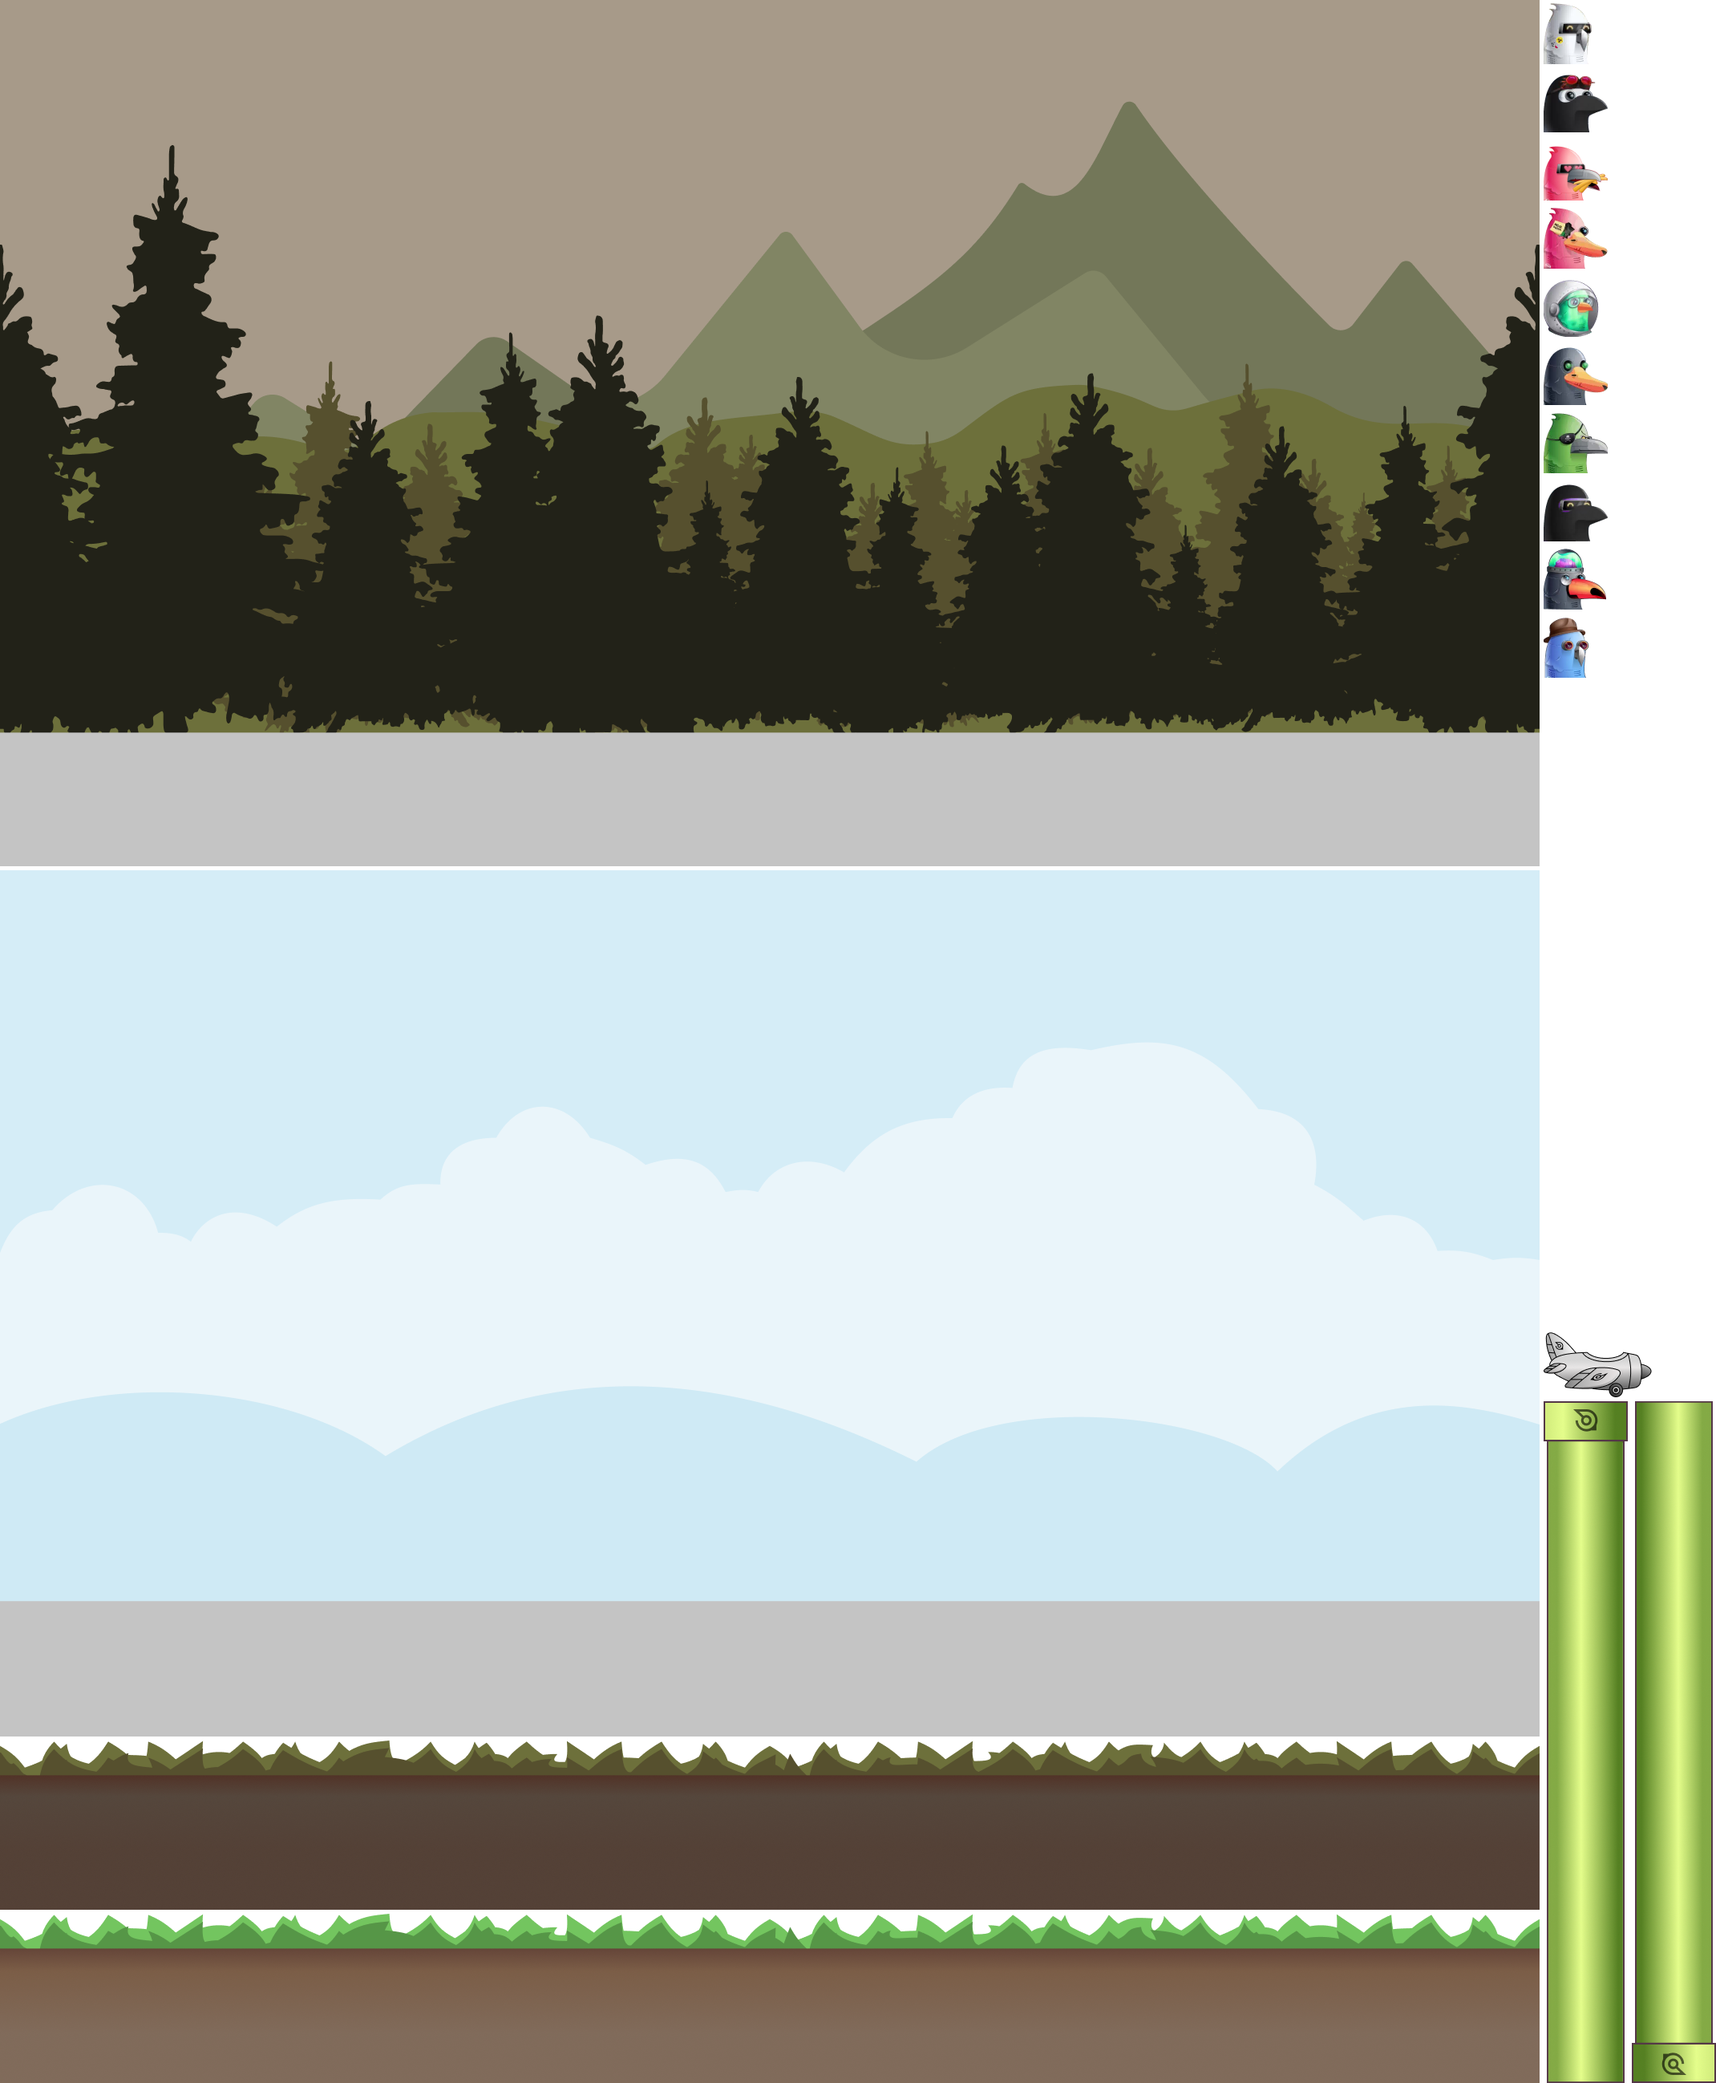
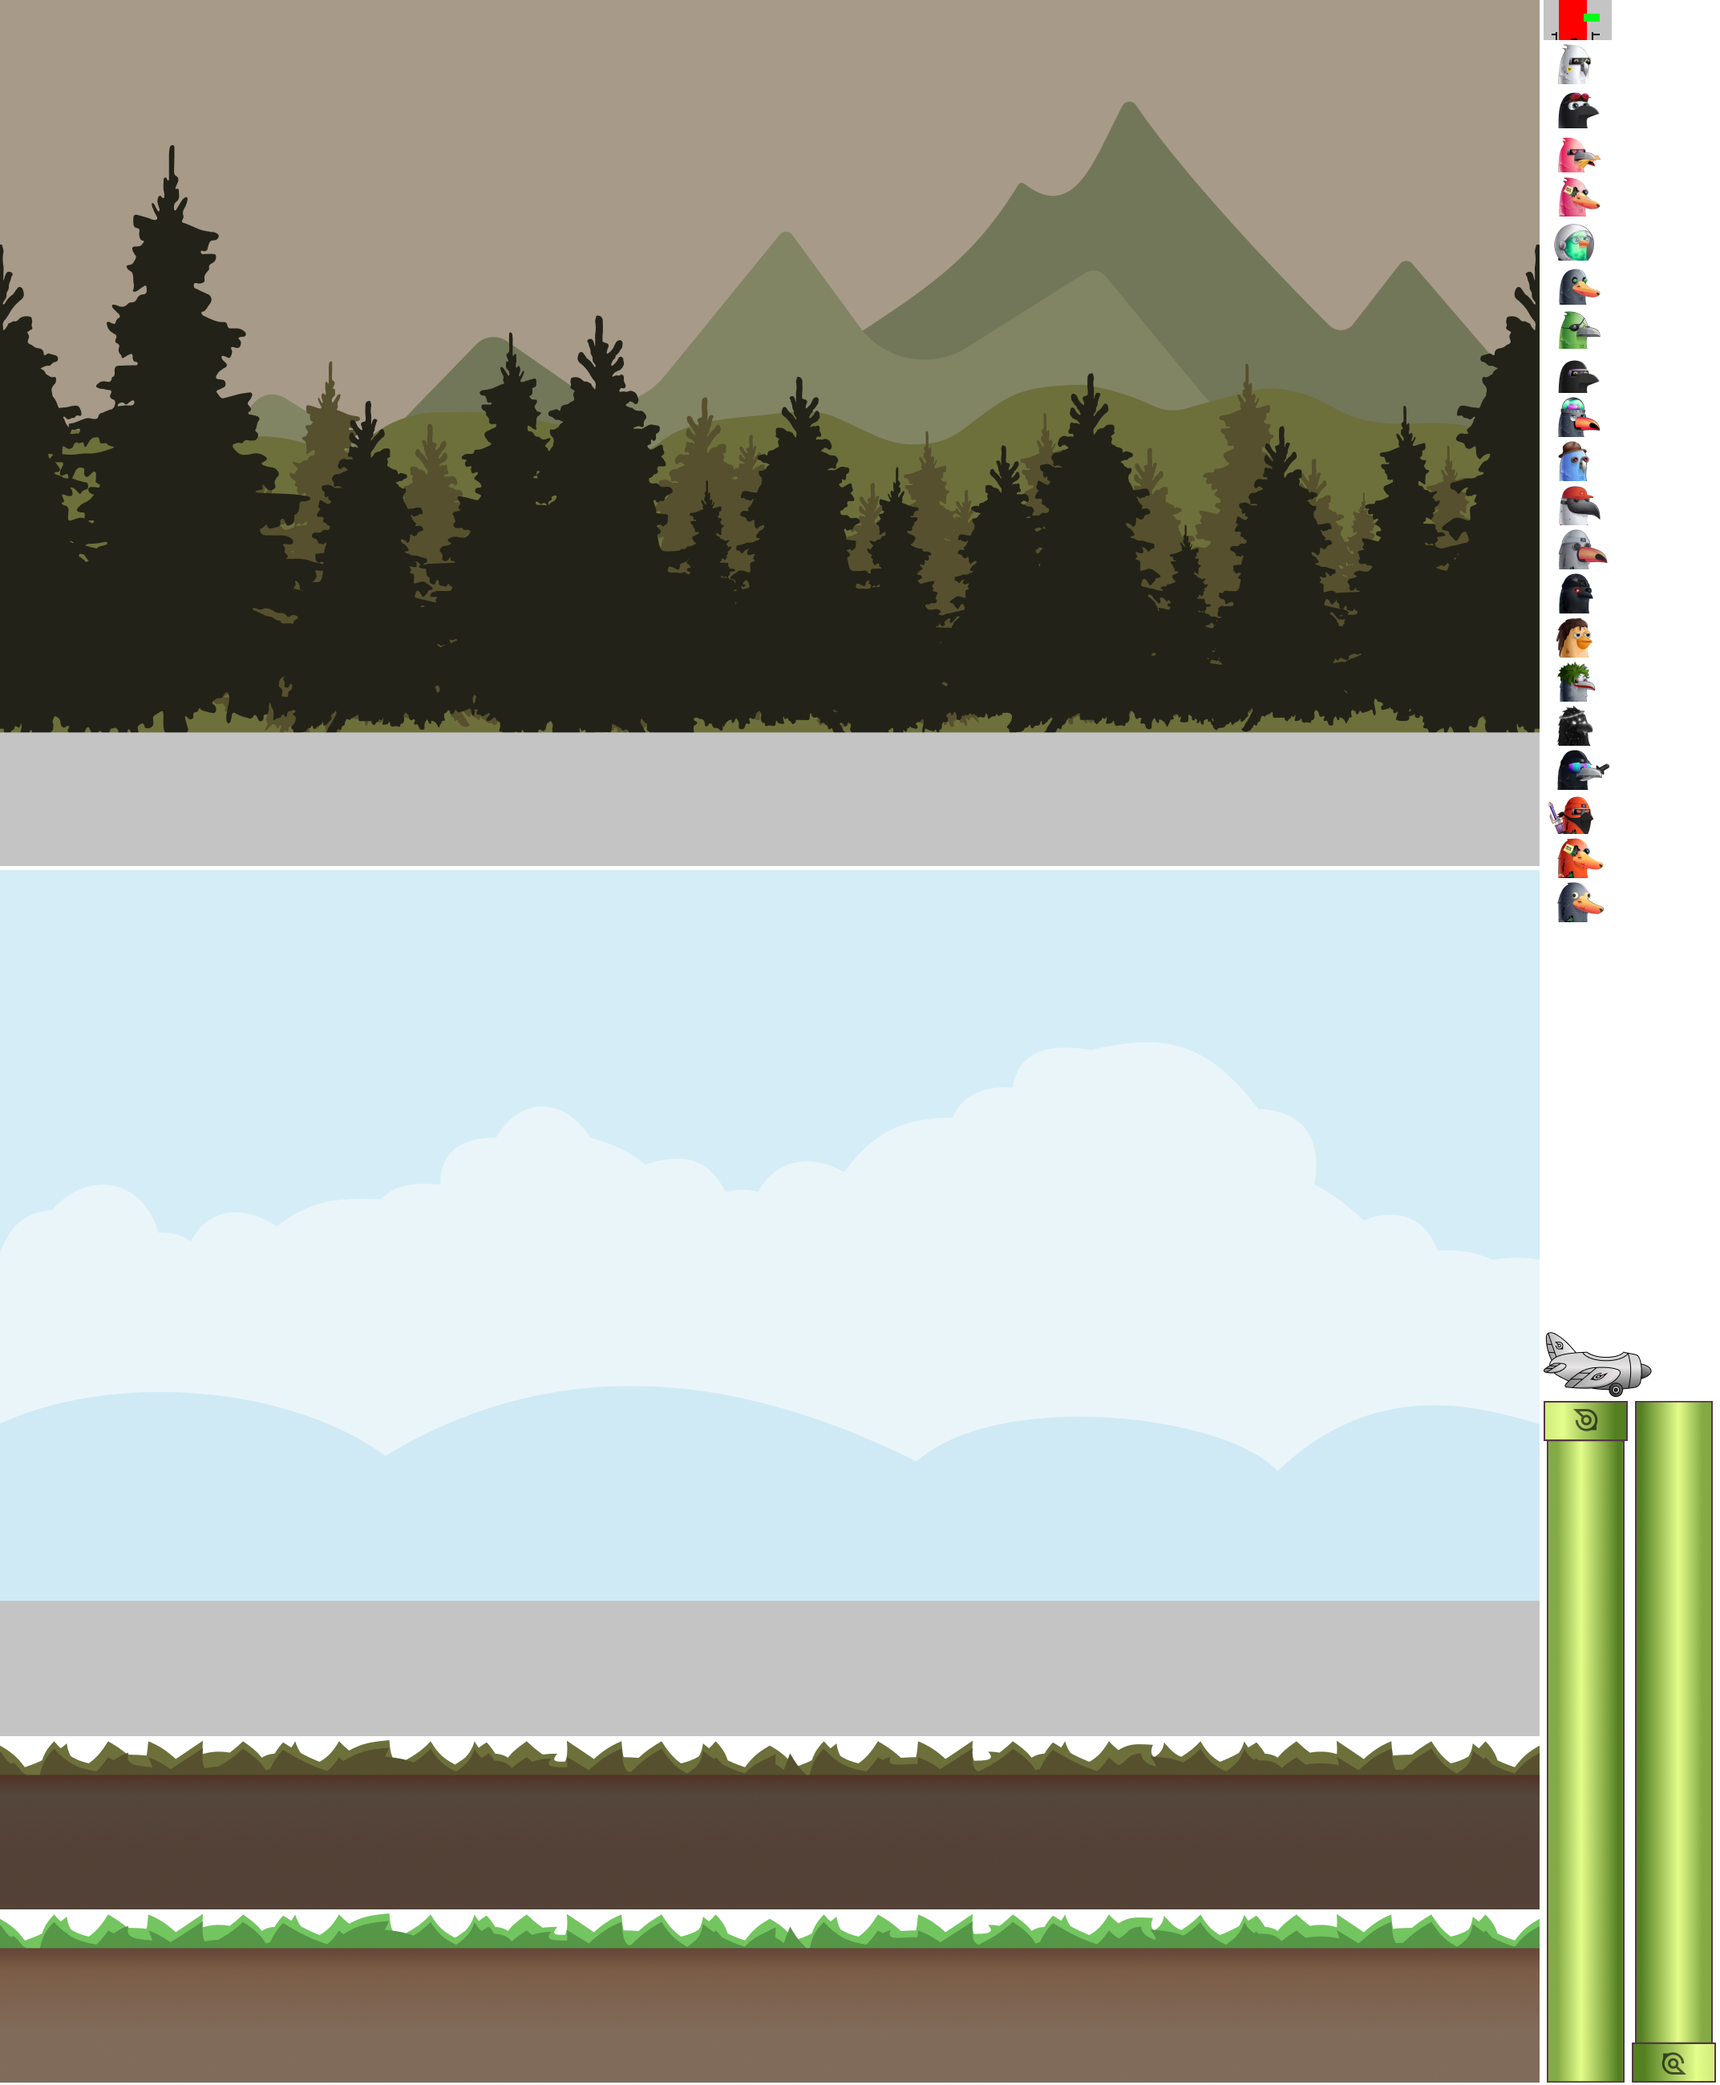
added skins

diff --git a/src/core/sprites/sprites.ts b/src/core/sprites/sprites.ts
@@ -1,37 +1,25 @@
 import Sprite from './parser/Sprite';
 import sheet from '../../assets/sheet.png';
 
-export const background_forest = Sprite({
-  filename: sheet,
-  x: 0,
-  y: 0,
-  width: 1920,
-  height: 1080,
-});
+export const backgrounds = Array.from(Array(2)).map((v, i) =>
+  Sprite({
+    filename: sheet,
+    x: 0,
+    y: i * (1085 + 5),
+    width: 1920,
+    height: 1080,
+  }),
+);
 
-// export const background_sky = Sprite({
-//   filename: sheet,
-//   x: 0,
-//   y: 1085,
-//   width: 1920,
-//   height: 1080,
-// });
-
-export const foreground_forest = Sprite({
-  filename: sheet,
-  x: 0,
-  y: 2170,
-  width: 1920,
-  height: 211,
-});
-
-// export const foreground_sky = Sprite({
-//   filename: sheet,
-//   x: 0,
-//   y: 2386,
-//   width: 1920,
-//   height: 211,
-// });
+export const foregrounds = Array.from(Array(2)).map((v, i) =>
+  Sprite({
+    filename: sheet,
+    x: 0,
+    y: 2170 + i * (211 + 5),
+    width: 1920,
+    height: 211,
+  }),
+);
 
 export const plane = Sprite({
   filename: sheet,
@@ -40,6 +28,16 @@ export const plane = Sprite({
   width: 134,
   height: 80,
 });
+
+export const dronies = Array.from(Array(21)).map((v, i) =>
+  Sprite({
+    filename: sheet,
+    x: 1925,
+    y: i * (50 + 5),
+    width: 85,
+    height: 50,
+  }),
+);
 
 export const pipe_n = Sprite({
   filename: sheet,
@@ -51,16 +49,16 @@ export const pipe_n = Sprite({
 
 export const pipe_s = Sprite({
   filename: sheet,
-  x: 2030,
+  x: 2035,
   y: 1747,
   width: 105,
   height: 850,
 });
 
-export const bg_h = background_forest?.props['data-h']; // all backgrounds maintain the same height
-export const bg_w = background_forest?.props['data-w']; // all backgrounds maintain the same width
-export const fg_h = foreground_forest?.props['data-h']; // all foregrounds maintain the same height
-export const fg_w = foreground_forest?.props['data-w']; // all foregrounds maintain the same width
+export const bg_h = backgrounds[0]?.props['data-h']; // all backgrounds maintain the same height
+export const bg_w = backgrounds[0]?.props['data-w']; // all backgrounds maintain the same width
+export const fg_h = foregrounds[0]?.props['data-h']; // all foregrounds maintain the same height
+export const fg_w = foregrounds[0]?.props['data-w']; // all foregrounds maintain the same width
 export const pipe_h = pipe_n?.props['data-h']; // both pipe north and south maintain same height
 export const pipe_w = pipe_n?.props['data-w']; // both pipe north and south maintain same width
 export const bird_h = plane?.props['data-h'];

diff --git a/src/core/sprites/parser/Sprite.tsx b/src/core/sprites/parser/Sprite.tsx
@@ -1,9 +1,5 @@
 import React from 'react';
-
-const SpriteSheet = {
-  width: 2140,
-  height: 2597,
-};
+import { SPRITE_SHEET } from '../../entities/ui';
 
 const Sprite: React.FC<Props> = (props) => {
   const { filename } = props;
@@ -24,8 +20,8 @@ const Sprite: React.FC<Props> = (props) => {
     <div
       style={{
         backgroundImage: `url(${filename})`,
-        backgroundSize: `${SpriteSheet.width * scale}px ${
-          SpriteSheet.height * scale
+        backgroundSize: `${SPRITE_SHEET.width * scale}px ${
+          SPRITE_SHEET.height * scale
         }px`,
         backgroundPosition: `${x * -1}px ${y * -1}px`,
         backgroundRepeat: 'no-repeat',

diff --git a/src/components/FlappyBird/components/Bird.tsx b/src/components/FlappyBird/components/Bird.tsx
@@ -1,10 +1,18 @@
 import React from 'react';
-import { plane, SpriteWrapper } from '../../../core/sprites';
+import { plane, SpriteWrapper, dronies } from '../../../core/sprites';
 import { game } from '../../../core';
 
 const Bird: React.FC<Props> = (props) => {
   const { sprite } = props;
-  return <SpriteWrapper gameSprite={sprite}>{plane}</SpriteWrapper>;
+
+  return (
+    <SpriteWrapper gameSprite={sprite}>
+      <div style={{ position: 'absolute', top: -10, left: 20, zIndex: -1 }}>
+        {dronies[sprite.skin]}
+      </div>
+      {plane}
+    </SpriteWrapper>
+  );
 };
 
 export default Bird;

diff --git a/src/components/FlappyBird/components/Background.tsx b/src/components/FlappyBird/components/Background.tsx
@@ -1,10 +1,14 @@
 import React from 'react';
-import { background_forest, SpriteWrapper } from '../../../core/sprites';
+import { backgrounds, SpriteWrapper } from '../../../core/sprites';
 import { game } from '../../../core';
 
 const Background: React.FC<Props> = (props) => {
   const { sprite } = props;
-  return <SpriteWrapper gameSprite={sprite}>{background_forest}</SpriteWrapper>;
+  return (
+    <SpriteWrapper gameSprite={sprite}>
+      {backgrounds[sprite.skin]}
+    </SpriteWrapper>
+  );
 };
 
 export default Background;

diff --git a/src/components/FlappyBird/components/Foreground.tsx b/src/components/FlappyBird/components/Foreground.tsx
@@ -1,10 +1,14 @@
 import React from 'react';
-import { foreground_forest, SpriteWrapper } from '../../../core/sprites';
+import { foregrounds, SpriteWrapper } from '../../../core/sprites';
 import { game } from '../../../core';
 
 const Foreground: React.FC<Props> = (props) => {
   const { sprite } = props;
-  return <SpriteWrapper gameSprite={sprite}>{foreground_forest}</SpriteWrapper>;
+  return (
+    <SpriteWrapper gameSprite={sprite}>
+      {foregrounds[sprite.skin]}
+    </SpriteWrapper>
+  );
 };
 
 export default Foreground;

diff --git a/src/core/entities/game/sprites/bird.ts b/src/core/entities/game/sprites/bird.ts
@@ -6,7 +6,8 @@ export class Bird extends Base {
   // Static properties, that doesn't change over time
   public gravity = 0.25;
   public jump = 4.6;
-  public radius = 20; // Collision radius
+  public radius = 16; // Collision radius
+  public skin = Math.floor(Math.random() * 21) + 1;
 
   constructor(cx: number, cy: number) {
     super(cx, cy, 0);

diff --git a/src/components/FlappyBird/components/Pipe.tsx b/src/components/FlappyBird/components/Pipe.tsx
@@ -1,10 +1,5 @@
 import React, { useEffect, useState } from 'react';
-import {
-  background_forest,
-  pipe_n,
-  pipe_s,
-  SpriteWrapper,
-} from '../../../core/sprites';
+import { pipe_n, pipe_s, SpriteWrapper } from '../../../core/sprites';
 import { game } from '../../../core';
 
 const Pipe: React.FC<Props> = (props) => {

diff --git a/src/core/entities/ui/index.ts b/src/core/entities/ui/index.ts
@@ -8,3 +8,8 @@ if (windowWidth >= 500) {
 
 export const WIDTH = windowWidth;
 export const HEIGHT = windowHeight;
+
+export const SPRITE_SHEET = {
+  width: 2145,
+  height: 2600,
+};

diff --git a/src/core/entities/game/sprites/background.ts b/src/core/entities/game/sprites/background.ts
@@ -1,3 +1,5 @@
 import { Base } from './base';
 
-export class Background extends Base {}
+export class Background extends Base {
+  public skin = 0;
+}

diff --git a/src/core/entities/game/sprites/foreground.ts b/src/core/entities/game/sprites/foreground.ts
@@ -1,3 +1,5 @@
 import { Base } from './base';
 
-export class Foreground extends Base {}
+export class Foreground extends Base {
+  public skin = 0;
+}
